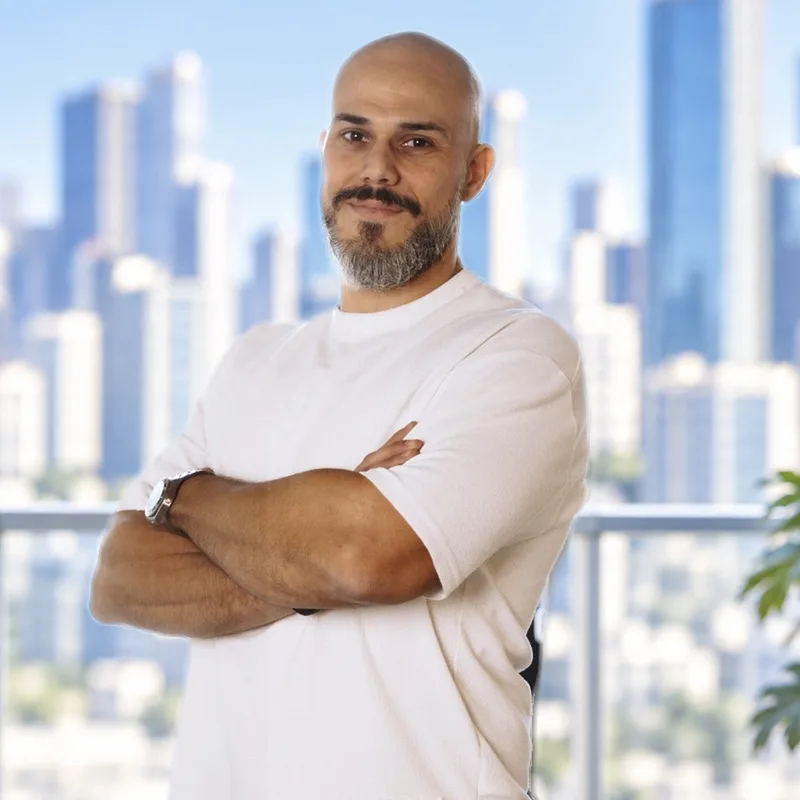
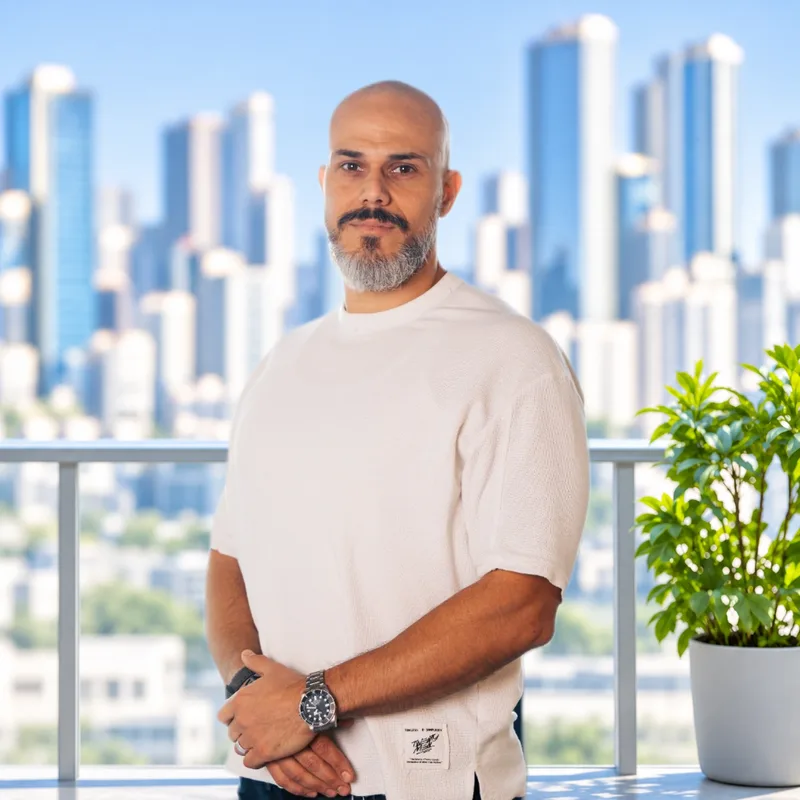
Update Amit Friedman's portrait

diff --git a/components/sections/Personnel.tsx b/components/sections/Personnel.tsx
@@ -15,7 +15,7 @@ import { assetPath } from "@/lib/basePath";
 // behind hover -- names and roles are always visible, on every device.
 // Bump when portrait files are replaced in place: the host caches images for
 // a day by URL, so a new query string is what makes visitors fetch the new set.
-const PORTRAIT_VERSION = "2026-11-05a";
+const PORTRAIT_VERSION = "2026-11-06a";
 
 function PersonEntry({ person, index }: { person: Person; index: number }) {
   return (
